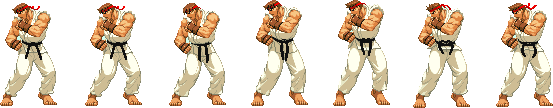
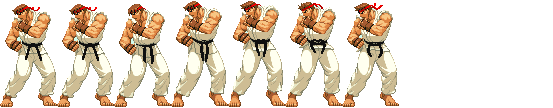
Fix default idle ryu animation

diff --git a/client/src/game/scenes/Game.ts b/client/src/game/scenes/Game.ts
@@ -14,8 +14,8 @@ export class Game extends Scene {
         super("Game");
     }
     player: Phaser.Types.Physics.Arcade.SpriteWithDynamicBody;
-    floor: any;
-    //floor: Phaser.Types.Physics.Arcade.StaticGroup;
+    // floor: any;
+    floor: ReturnType<typeof this.physics.add.staticGroup>;
     cursors: Phaser.Types.Input.Keyboard.CursorKeys;
     lp: Phaser.Input.Keyboard.Key;
     jump: Phaser.Input.Keyboard.Key;
@@ -34,23 +34,23 @@ export class Game extends Scene {
         });
 
         this.load.spritesheet("ryu-idle", "ryu-idle.png", {
-            frameWidth: 78,
-            frameHeight: 110,
+            frameWidth: 57,
+            frameHeight: 108,
         });
     }
 
     create() {
         this.floor = this.physics.add.staticGroup();
-        this.player = this.physics.add.sprite(500, 600, "star");
+        this.player = this.physics.add.sprite(500, 600, "ryu-idle");
         this.physics.add.collider(this.player, this.floor);
         if (this.input.keyboard) {
             this.cursors = this.input.keyboard.createCursorKeys();
             this.lp = this.input.keyboard.addKey(
-                Phaser.Input.Keyboard.KeyCodes.A
+                Phaser.Input.Keyboard.KeyCodes.A,
             );
 
             this.jump = this.input.keyboard.addKey(
-                Phaser.Input.Keyboard.KeyCodes.SPACE
+                Phaser.Input.Keyboard.KeyCodes.SPACE,
             );
         }
 
@@ -58,20 +58,10 @@ export class Game extends Scene {
             key: "idleman",
             frames: this.anims.generateFrameNumbers("ryu-idle", {
                 start: 0,
-                end: 3,
+                end: 6,
             }),
             frameRate: 10,
-            repeat: 1,
-        });
-
-        this.anims.create({
-            key: "walk-left",
-            frames: this.anims.generateFrameNumbers("ryu-walk", {
-                start: 0,
-                end: 7,
-            }),
-            frameRate: 10,
-            repeat: 1,
+            repeat: -1,
         });
 
         this.anims.create({
@@ -87,6 +77,8 @@ export class Game extends Scene {
         this.player.setBounce(0.2);
         this.player.setScale(1);
         this.player.setCollideWorldBounds(true);
+
+        this.player.anims.play("idleman", true);
 
         this.floor.create(500, 750, "ground").setScale(10, 2).refreshBody();
 
@@ -114,7 +106,6 @@ export class Game extends Scene {
             }
 
             if (Phaser.Input.Keyboard.JustDown(this.jump)) {
-                this.player.anims.play("idleman", true);
             }
 
             if (Phaser.Input.Keyboard.JustDown(this.lp)) {

diff --git a/client/src/game/main.ts b/client/src/game/main.ts
@@ -12,7 +12,7 @@ const config: Types.Core.GameConfig = {
     physics: {
         default: "arcade",
         arcade: {
-            gravity: { y: 300 },
+            gravity: { y: 300, x: 1},
             debug: false,
         },
     },
